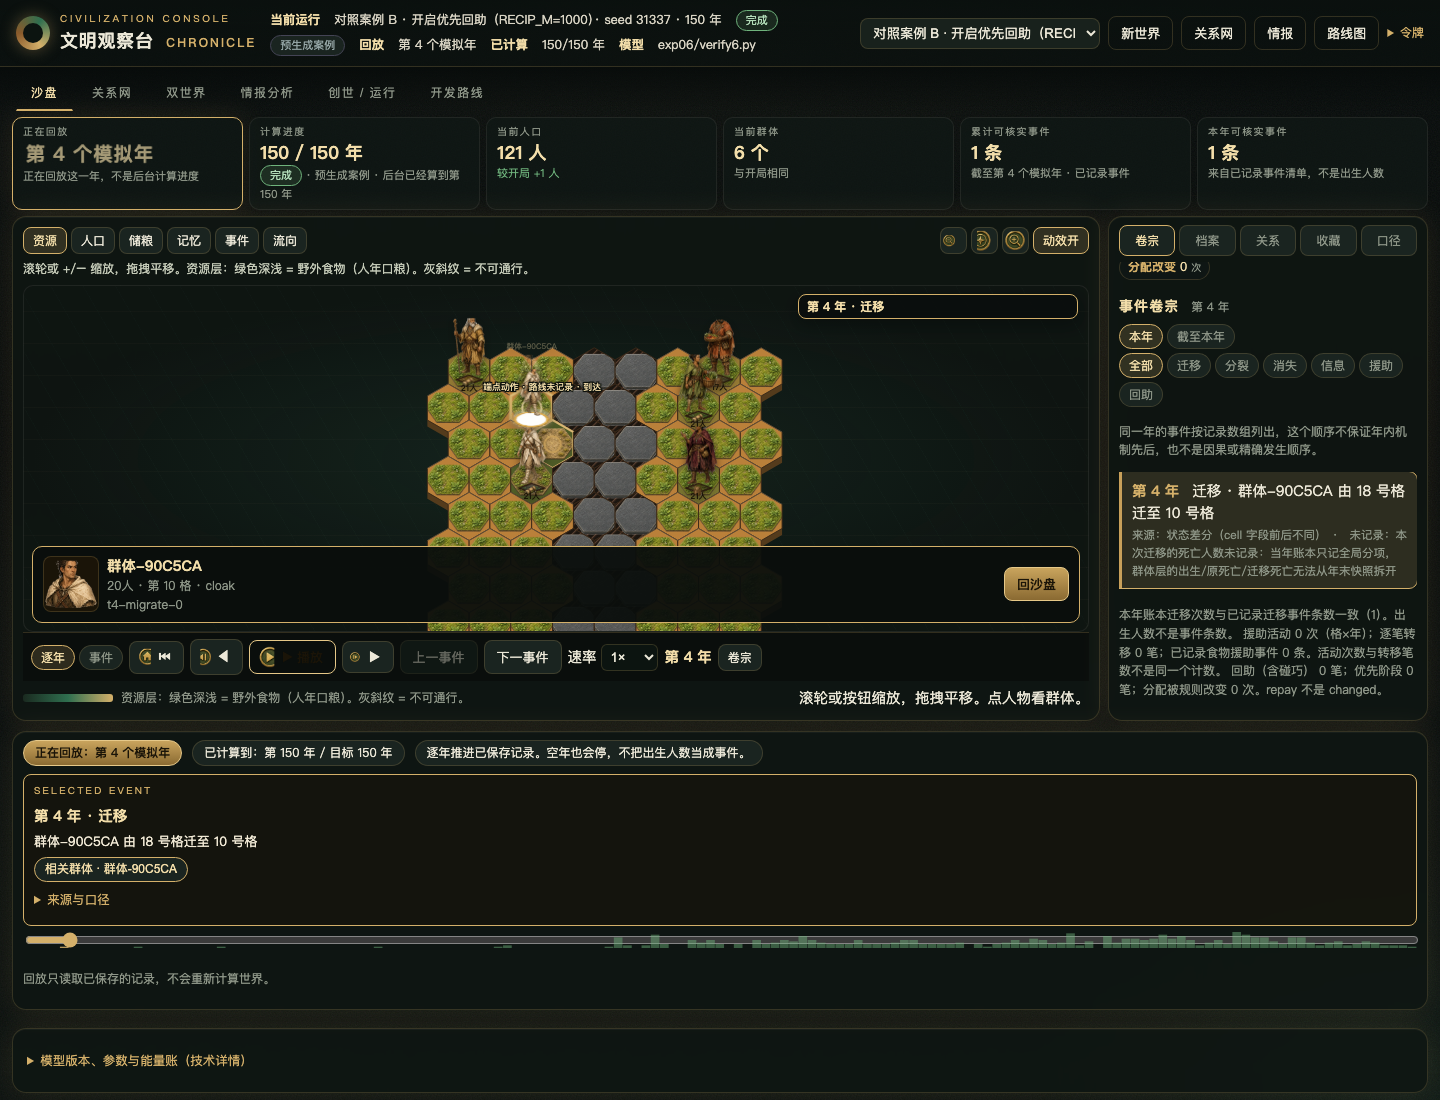
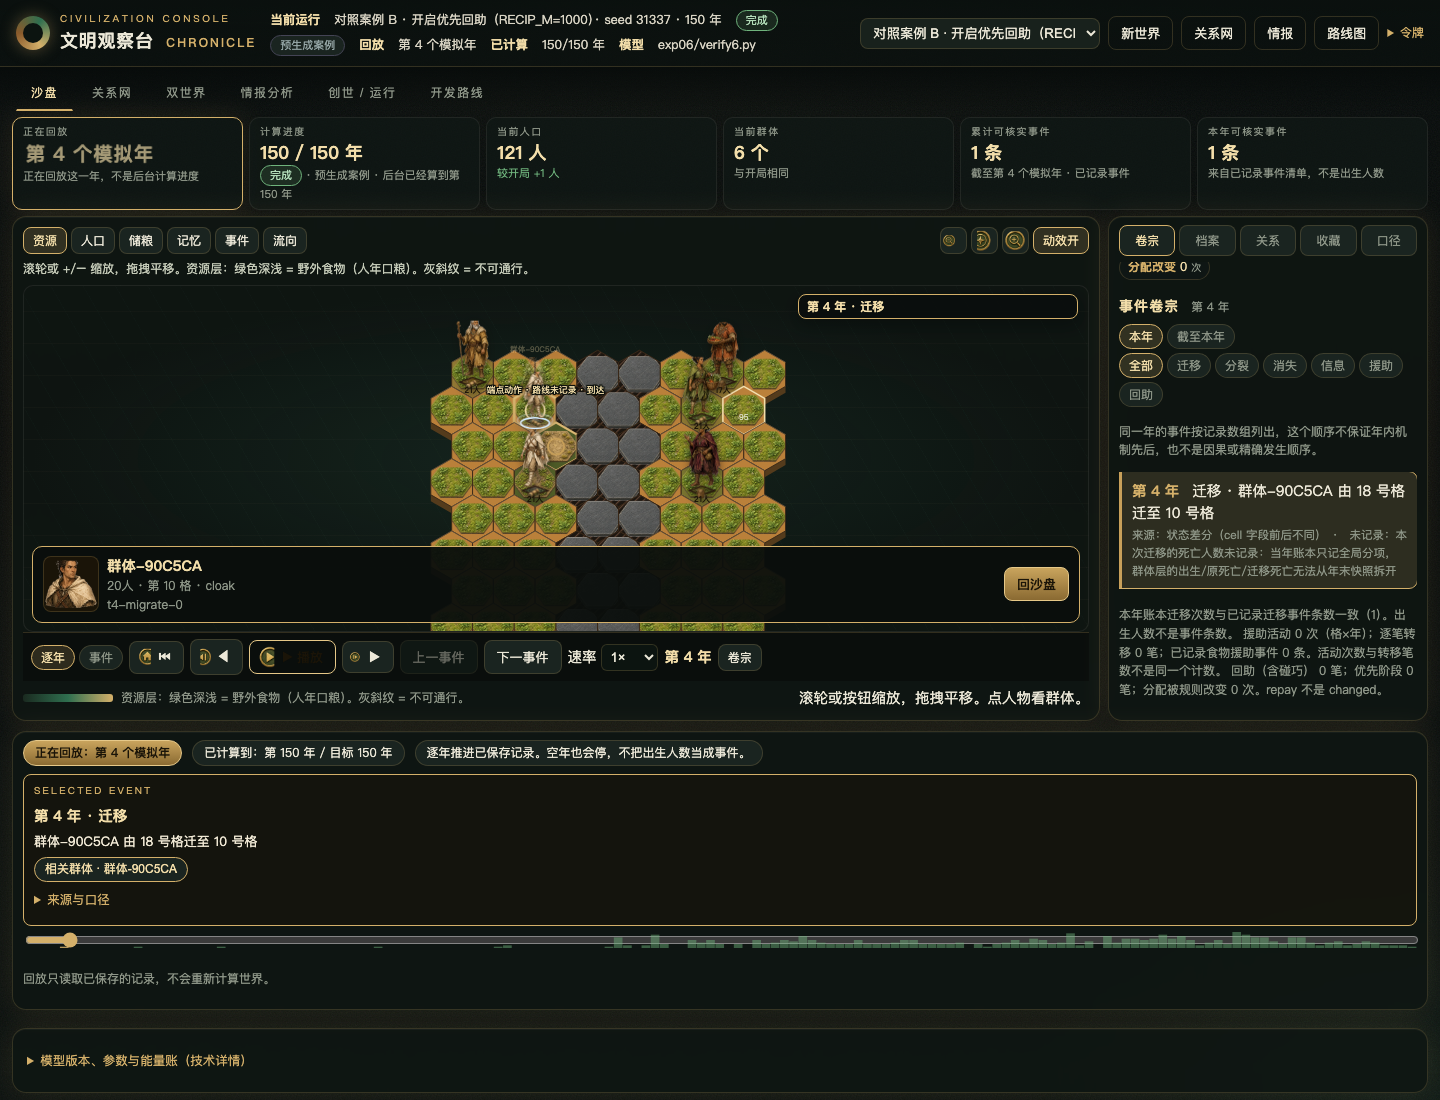
game-v2: 390 sheet above play dock gather poses and closed selftest

Changed region(s): [[0.2812, 0.2782, 0.5625, 0.4945], [0.4375, 0.5564, 0.5312, 0.5873], [0.3125, 0.5564, 0.375, 0.5873]]

diff --git a/observer/web/app.js b/observer/web/app.js
@@ -461,6 +461,12 @@ const UnitArt = {
   portraitHref(id) {
     return this.spriteHref("port-" + this.silhouetteName(this.variant(id)));
   },
+  poseHref(id, pose) {
+    const sil = this.silhouetteName(this.variant(id));
+    if (sil === "gather" && pose === "select") return this.spriteHref("state-wave");
+    if (sil === "gather" && (pose === "give" || pose === "talk")) return this.spriteHref("state-give");
+    return this.charHref(id);
+  },
   luma(hex) {
     const h = String(hex || "").replace("#", "");
     if (h.length < 6) return 0;
@@ -600,7 +606,7 @@ const UnitArt = {
     const nParty = opts.party != null ? opts.party : this.partyCount(b && b.size);
     const sil = this.silhouetteName(v);
     const campRx = (7.2 + nParty * 2.2).toFixed(1);
-    const ring = on ? `<image class="unit-sel-ring unit-ring" href="${this.spriteHref("sel-ring")}" x="-22" y="2" width="44" height="22" preserveAspectRatio="none" pointer-events="none"/>` : "";
+    const ring = on ? `<ellipse class="unit-sel-ring unit-ring" cx="0" cy="14" rx="16" ry="6" fill="none" stroke="${pal.accent}" stroke-width="1.7" pointer-events="none"/>` : "";
     const prop = `<image class="unit-prop-art" href="${this.spriteHref(v % 2 ? "prop-pack" : "prop-bedroll")}" x="-7" y="10" width="12" height="9" preserveAspectRatio="xMidYMid meet" pointer-events="none"/>`;
     const spr = 'x="-20" y="-46" width="40" height="56" preserveAspectRatio="xMidYMax meet"';
     let body;
@@ -611,7 +617,7 @@ const UnitArt = {
       </g>`;
     } else {
       body = `<g class="unit-body unit-${esc(pose)}">
-        <image class="unit-sprite unit-head unit-tunic" href="${this.charHref(b && b.id)}" ${spr}/>
+        <image class="unit-sprite unit-head unit-tunic" href="${this.poseHref(b && b.id, pose)}" ${spr}/>
       </g>`;
     }
     return `<g class="band unit${on ? " selected" : ""}${ghost}" data-band="${esc(bid)}" data-unit="group-rep" data-party="${nParty}" data-silhouette="${sil}" data-pose="${esc(pose)}" data-art="sprite" data-cell="${esc(cell)}" transform="translate(${Number(x).toFixed(1)},${Number(y).toFixed(1)}) scale(${(sc * facing).toFixed(3)},${sc.toFixed(3)})">
@@ -1443,6 +1449,7 @@ function renderMap() {
       ? "拖动平移，用 +/− 缩放。"
       : "滚轮或 +/− 缩放，拖拽平移。") + (keys[layer] || "");
   }
+  layoutPlayDock();
 }
 
 function bandName(rec, id) {
@@ -2183,6 +2190,21 @@ async function gotoYear(t, opts) {
 function compactPlay() {
   return typeof window !== "undefined" && window.innerWidth <= 900;
 }
+function layoutPlayDock() {
+  const dock = $("play-dock");
+  const world = $("tab-world");
+  const rail = $("rail");
+  if (!dock || !world) return;
+  if (!compactPlay()) {
+    world.style.paddingBottom = "";
+    if (rail) rail.style.bottom = "";
+    return;
+  }
+  const h = Math.max(52, Math.ceil(dock.getBoundingClientRect().height));
+  world.style.paddingBottom = h + "px";
+  document.documentElement.style.setProperty("--play-dock-h", h + "px");
+  if (rail) rail.style.bottom = (h + 8) + "px";
+}
 function playDelay() {
   return Math.max(80, (S.playMode === "events" ? 1600 : 720) / Math.max(S.speed || 1, 0.25));
 }
@@ -2852,6 +2874,7 @@ function fillSelSheet() {
       <div class="sel-act">${esc(act)}</div>
     </div>`;
   sheet.hidden = false;
+  layoutPlayDock();
 }
 function closeSheets() {
   const sheet = $("sel-sheet");
@@ -3420,7 +3443,11 @@ async function boot() {
     if (rail && rail.classList.contains("open")) closeSheets();
     else showRail("chronicle");
   });
-  window.addEventListener("resize", () => { if (compactPlay()) closeSheets(); });
+  window.addEventListener("resize", () => {
+    layoutPlayDock();
+    if (compactPlay()) closeSheets();
+  });
+  layoutPlayDock();
   if ($("b-motion")) $("b-motion").addEventListener("click", () => {
     S.reduceMotion = !S.reduceMotion;
     $("b-motion").textContent = S.reduceMotion ? "动效关" : "动效开";
@@ -3828,7 +3855,7 @@ window.__obs = { S, api, esc, ykey, openRun, gotoYear, selectBand, refresh, rend
   collectRunDraft, applyForgePreset, confirmStartRun, LibraryLogic, renderLibrary,
   pinCurrentYear, pinCurrentEvent, exportCurrentRecord, jumpToRecordedEvent,
   clearRelEdgeCard, fillRelEdgeCard, UnitArt, paintDirectorFx, OverviewLogic, DirectorLogic,
-  syncEngineForm, engineHasParam };
+  syncEngineForm, engineHasParam, layoutPlayDock, compactPlay };
 
 if (!window.__OBS_MANUAL_BOOT__) {
   boot().catch((e) => {

diff --git a/observer/web/style.css b/observer/web/style.css
@@ -371,13 +371,21 @@ html.skin-console #pane-help{display:none !important}
   html.skin-console .rail-pane.on,html.skin-console .rail-pane:not([hidden]){display:block !important}
 }
 @media (max-width:900px){
-  #tab-world{height:calc(100dvh - 52px);padding-bottom:58px}
+  html[data-tab="world"] body{display:flex;flex-direction:column;height:100dvh;overflow:hidden}
+  html[data-tab="world"] .hud,html[data-tab="world"] .modes{flex-shrink:0}
+  html[data-tab="world"] main{flex:1;min-height:0;display:flex;flex-direction:column;overflow:hidden}
+  #tab-world{height:auto;flex:1;min-height:0;padding-bottom:var(--play-dock-h, 84px)}
   .overview{display:none}
-  .play-dock{position:fixed;left:0;right:0;bottom:0;padding-bottom:max(6px, env(safe-area-inset-bottom))}
+  .modes{flex-wrap:nowrap;overflow-x:auto}
+  .modes button{white-space:nowrap;flex-shrink:0}
+  .play-dock{position:fixed;left:0;right:0;bottom:0;padding:4px 6px max(6px, env(safe-area-inset-bottom));gap:4px;max-height:42vh;overflow:auto;z-index:32}
   .play-dock .tlctl .btn{min-width:40px;min-height:36px}
-  .sel-port{width:44px;height:44px}
-  .rail{position:fixed;left:8px;right:8px;bottom:62px;max-height:28vh;z-index:34;
-    display:none;height:auto}
+  #b-prev-ev,#b-next-ev,.play-dock .spd,.mapfoot,.sel-act{display:none}
+  .sel-port{width:40px;height:40px}
+  .sel-sheet{position:fixed;left:8px;right:8px;bottom:calc(var(--play-dock-h, 84px) + 8px);padding:6px 8px;z-index:31}
+  .mapbox{overflow:hidden}
+  .rail{position:fixed;left:8px;right:8px;bottom:calc(var(--play-dock-h, 84px) + 8px);max-height:28vh;z-index:34;
+    display:none;height:auto;margin-bottom:0}
   .rail.open{display:flex}
   .rail.open .year-summary,.rail.open .year-metrics,.rail.open .panel-kicker,
   .rail.open #ev-load-note,.rail.open #ev-ledger-note{display:none}

diff --git a/observer/web/CONTINUOUS-PROGRESS.md b/observer/web/CONTINUOUS-PROGRESS.md
@@ -1,5 +1,12 @@
 # 连续开发进度
 
+## GROK_BUILD_007 检查点
+- 闭环本波剩余：390 选中卡片改为贴在播放条上方，不再叠住播放；采集者选中/给予用 15 状态图；选中环改为描边椭圆（原 PNG 内孔是实心白底）。
+- 03 八方向是另一套斗篷人物，不混进六名群体代表。行走仍是两帧近似姿势 + 程序摆动，不是已验证循环。
+- 试玩：http://127.0.0.1:8788/static/index.html#tab=world&run=preset-exp06-recip1000&t=0
+- tests：run_tests 213/0/1uncov（O28m）；c07 16/0；c08 51/0；game-v2-unit 22/0；game-v2-cdp 21/0（V8 sheetAbove mapH=384 dockH=84）；engines-cdp 7/0；c08-wizard 6/0；g04-fix 6/0；g05 11/0；g06 5/0；g07 5/0；director-logic 18/0
+- 本波后停下。Codex 尚未试玩。8765/8772 未动。
+
 ## GROK_BUILD_006 检查点
 - ART-PACK-001 选 variant-01，去底/裁切/对齐写入 `observer/web/assets/sprites/`（源目录只读）。未把白底 JPG 整张贴上地图。
 - 人物/地块/头像已接入；援助/信息用 pair 图锚事件格；迁移两帧近似走姿+程序摆动（不是已验证循环）；创世页用 menu-bg；随身包袱只作装饰。

diff --git a/observer/web/assets/sprites/README.md b/observer/web/assets/sprites/README.md
@@ -12,3 +12,5 @@ White JPG sheets are not used on the map. These PNGs are flood-knocked, cropped,
 - `menu-bg.jpg` is the 创世/运行 tab illustration, not the replay map.
 - `prop-*` are decorative camp props, not cities or buildings.
 - Event pair images still anchor `e.cell`. Split still has no map locate.
+- `state-wave` / `state-give` only apply when the group representative is the gatherer silhouette. Other bands keep their own idle sprite.
+- `face-east` / `face-west` are a different hooded figure and are not mixed into the six group identities. Walk facing uses a horizontal flip of the two scout poses.
